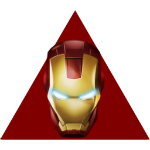
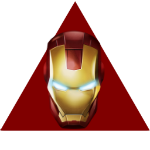
terminado

diff --git a/TP2/EntregaFinal/js/puzzle.js b/TP2/EntregaFinal/js/puzzle.js
@@ -14,33 +14,26 @@ function Puzzle(){
 }
 Puzzle.prototype.isfinish = function(){
   clearInterval(relojInterval);
-  //reloj1.dibujaReloj();
   ctx.beginPath();
   ctx.fillStyle= 'rgba(92, 88, 103, 0.67)';
   ctx.fillRect(0,0,canvas.width,canvas.height);
   ctx.fill();
   ctx.closePath();
-  //ctx.beginPath();
-  //ctx.fillStyle='white';
-  //ctx.fillRect(300,180,300,100);
-  //ctx.fill();
-  //ctx.closePath();
   ctx.beginPath();
   ctx.fillStyle='black';
   ctx.font="40px Fixedsys";
   var str1="Juego Terminado!"
   var str2="Tiempo: "+reloj1.getEstadoReloj();
-  ctx.fillText(str1,330,210);
-  ctx.fillText(str2,330,260);
+  ctx.fillText(str1,150,210);
+  ctx.fillText(str2,150,260);
   ctx.fill();
   ctx.closePath();
   puzzle1.andando=3;
+  reloj1.resetReloj();
 
 }
 
 Puzzle.prototype.play=function(){
-  this.andando=1;
-  var level=document.getElementById("level").value;
   puzzle1.setDificultad(level);
   // this.reloj.dibujaReloj();
   // setInterval(this.reloj1.mueveReloj,1000);
@@ -51,11 +44,58 @@ Puzzle.prototype.pause=function(){
 }
 Puzzle.prototype.setDificultad=function(l){
 this.dificultad=l;
+var x1=[150,300,450];
+var x2=[620,770,920];
+var y=[100,250,400];
 
 for (var i = 0; i < l; i++) {
     var piezanueva = this.aleatorias();
-    piezanueva[0].setX(100+120*i);
-    piezanueva[1].setX(100+120*i);
+    if(i<3){
+      piezanueva[0].setY(y[0]);
+      piezanueva[1].setY(y[0]);
+      if (i==1){
+        piezanueva[0].setX(x1[1]);
+        piezanueva[1].setX(x2[1]);
+      }else if (i==2){
+        piezanueva[0].setX(x1[2]);
+        piezanueva[1].setX(x2[2]);
+      }else{
+        piezanueva[0].setX(x1[0]);
+        piezanueva[1].setX(x2[0]);
+      }
+    }else if(i<6){
+      piezanueva[0].setY(y[1]);
+      piezanueva[1].setY(y[1]);
+      if (i==4){
+        piezanueva[0].setX(x1[1]);
+        piezanueva[1].setX(x2[1]);
+      }else if (i==3){
+        piezanueva[0].setX(x1[2]);
+        piezanueva[1].setX(x2[2]);
+      }else{
+        piezanueva[0].setX(x1[0]);
+        piezanueva[1].setX(x2[0]);
+      }
+    }else{
+      piezanueva[0].setY(y[2]);
+      piezanueva[1].setY(y[2]);
+      if (i==8){
+        piezanueva[0].setX(x1[1]);
+        piezanueva[1].setX(x2[1]);
+      }else if (i==6){
+        piezanueva[0].setX(x1[2]);
+        piezanueva[1].setX(x2[2]);
+      }else{
+        piezanueva[0].setX(x1[0]);
+        piezanueva[1].setX(x2[0]);
+      }
+    }
+
+
+
+
+
+
     this.piezas[i]=piezanueva[0];
     this.encastres[i]=piezanueva[1];
 }
@@ -131,82 +171,104 @@ canvas.onmousedown = function(evt){
   }
   if(puzzle1.andando==0){
       var mousePos = getMousePos(canvas, evt);
-      if ( mousePos.x-380<=150 && mousePos.x-380>0){
+      if ( mousePos.x-480<=150 && mousePos.x-480>0){
         if(mousePos.y-220<=50 &&  mousePos.y-220>0){
           ctx.clearRect(0,0,canvas.width,canvas.height);
           selectLevel();
-          play();//hacer
+          return false;
         }
       }
   }
   if(puzzle1.andando==2){
-    ctx.clearRect(0,0,canvas.width,canvas.height);
-    play();
+    var mousePos = getMousePos(canvas, evt);
+    if ( mousePos.x-320<=150 && mousePos.x-320>0){
+      if(mousePos.y-220<=50 &&  mousePos.y-220>0){
+        ctx.clearRect(0,0,canvas.width,canvas.height);
+        level=3;
+        play();
+      }
+    }
+    if ( mousePos.x-470<=150 && mousePos.x-470>0){
+      if(mousePos.y-220<=50 &&  mousePos.y-220>0){
+        ctx.clearRect(0,0,canvas.width,canvas.height);
+        level=6;
+        play();
+      }
+    }
+    if ( mousePos.x-620<=150 && mousePos.x-620>0){
+      if(mousePos.y-220<=50 &&  mousePos.y-220>0){
+        ctx.clearRect(0,0,canvas.width,canvas.height);
+        level=9;
+        play();
+      }
+    }
+
   }
   if(puzzle1.andando==3){
     ctx.clearRect(0,0,canvas.width,canvas.height);
-    puzzle1.andando=0;
     comienzo();
   }
 }
 
 function selectLevel(){
+  puzzle1.andando=2;
   ctx.beginPath();
   ctx.fillStyle= 'rgba(92, 88, 103, 0.67)';
   ctx.fillRect(0,0,canvas.width,canvas.height);
   ctx.fill();
   ctx.closePath();
   ctx.beginPath();
-  ctx.fillStyle='white';
-  ctx.fillRect(220,320,450,50);
+  ctx.fillStyle='rgb(128, 136, 138)';
+  ctx.fillRect(320,220,450,50);
   ctx.fill();
   ctx.closePath();
   ctx.beginPath();
   ctx.lineWidth =5;
   ctx.strokeStyle = 'rgb(19, 21, 79)' ;
-  ctx.strokeRect(220,320,150,50);
+  ctx.strokeRect(320,220,150,50);
   ctx.closePath();
   ctx.beginPath();
   ctx.lineWidth =5;
   ctx.strokeStyle = 'rgb(19, 21, 79)' ;
-  ctx.strokeRect(370,320,150,50);
+  ctx.strokeRect(470,220,150,50);
   ctx.closePath();
   ctx.beginPath();
   ctx.lineWidth =5;
   ctx.strokeStyle = 'rgb(19, 21, 79)' ;
-  ctx.strokeRect(520,320,150,50);
+  ctx.strokeRect(620,220,150,50);
   ctx.closePath();
   ctx.beginPath();
   ctx.fillStyle='black';
   ctx.font="40px Fixedsys";
-  ctx.fillText("Facil",250,358);
-  ctx.fillText("Medio",400,358);
-  ctx.fillText("Dificil",550,358);
+  ctx.fillText("Facil",350,258);
+  ctx.fillText("Medio",500,258);
+  ctx.fillText("Dificil",650,258);
   ctx.fill();
   ctx.closePath();
 
 }
 function comienzo(){
+  puzzle1.andando=0;
   ctx.beginPath();
   ctx.fillStyle= 'rgba(92, 88, 103, 0.67)';
   ctx.fillRect(0,0,canvas.width,canvas.height);
   ctx.fill();
   ctx.closePath();
   ctx.beginPath();
-  ctx.fillStyle='white';
-  ctx.fillRect(380,220,150,50);
+  ctx.fillStyle='rgb(128, 136, 138)';
+  ctx.fillRect(480,220,150,50);
   ctx.fill();
   ctx.closePath();
   ctx.beginPath();
   ctx.lineWidth =5;
   ctx.strokeStyle = 'rgb(19, 21, 79)' ;
-  ctx.strokeRect(380,220,150,50);
+  ctx.strokeRect(480,220,150,50);
   ctx.closePath();
   ctx.beginPath();
   ctx.fillStyle='black';
   ctx.font="40px Fixedsys";
   var str1="Play!"
-  ctx.fillText(str1,415,258);
+  ctx.fillText(str1,515,258);
   ctx.fill();
   ctx.closePath();
 
@@ -216,7 +278,7 @@ function comienzo(){
 var puzzle1 = new Puzzle();
 var reloj1= new Reloj(ctx);
 //on click ->
-
+var level;
   var img = new Image();
   img.src='images/thor.png';
   var img2 = new Image();
@@ -228,16 +290,12 @@ var reloj1= new Reloj(ctx);
   var relojInterval;
   comienzo();
   function play(){
+    puzzle1.andando=1;
     reloj1.dibujaReloj();
     relojInterval = setInterval("reloj1.mueveReloj()",1000);
   puzzle1.play();
-
     img.onload=function(){
-    //  img.width= 150;
-    //  img.height= 150;
       image = ctx.createPattern(img,"no-repeat");
-
-
   }
 }
 

diff --git a/TP2/EntregaFinal/js/cuadrado.js b/TP2/EntregaFinal/js/cuadrado.js
@@ -24,11 +24,11 @@ function Cuadrado(paramPosX, paramPosY, paramLado,paramColor,paramColorBorde){
 
 
 Cuadrado.prototype.setX = function(x) {
-  this.posX = x;
+  this.posX = x-this.lado/2;
 }
 
 Cuadrado.prototype.setY = function(y) {
-  this.posY = y;
+  this.posY = y-this.lado/2;
 }
 
 Cuadrado.prototype.getX = function() {
@@ -72,8 +72,8 @@ Cuadrado.prototype.estaAdentro = function(x,y){
 
 Cuadrado.prototype.select = function(x,y){
   this.selected=1;
-  this.selx=x;
-  this.sely=y;
+  this.selx=x+this.lado/2;
+  this.sely=y+this.lado/2;
 }
 
 Cuadrado.prototype.unselect = function(){

diff --git a/TP2/EntregaFinal/js/triangulo.js b/TP2/EntregaFinal/js/triangulo.js
@@ -28,7 +28,7 @@ Triangulo.prototype.setX = function(x) {
 }
 
 Triangulo.prototype.setY = function(y) {
-  this.posY = y;
+  this.posY = y-this.lado/2;
 }
 
 Triangulo.prototype.getX = function() {
@@ -100,7 +100,7 @@ Triangulo.prototype.estaAdentro = function(x,y){
 Triangulo.prototype.select = function(x,y){
   this.selected=1;
   this.selx=x;
-  this.sely=y;
+  this.sely=y+this.lado/2;
 }
 
 Triangulo.prototype.unselect = function(){

diff --git a/TP2/EntregaFinal/puzzle.html b/TP2/EntregaFinal/puzzle.html
@@ -14,7 +14,7 @@
 	</div>
 	<div class="row">
 		<div class="col-md-offset-1 col-md-10  juego">
-			<canvas  id="canvas" width="900" height="550"  />
+			<canvas  id="canvas" width="1100" height="550"  />
 			<select class="" name="level" id="level" >
 				<option value="4">Facil</option>
 				<option value="5">Medio</option>

diff --git a/TP2/EntregaFinal/js/reloj.js b/TP2/EntregaFinal/js/reloj.js
@@ -49,3 +49,9 @@ function Reloj(){
     if(this.hr<10){strhr='0'+this.hr};
     return strhr+':'+strmin+':'+strseg;
   }
+
+  Reloj.prototype.resetReloj=function(){
+    this.hr=0;
+    this.min=0;
+    this.seg=0;
+  }
